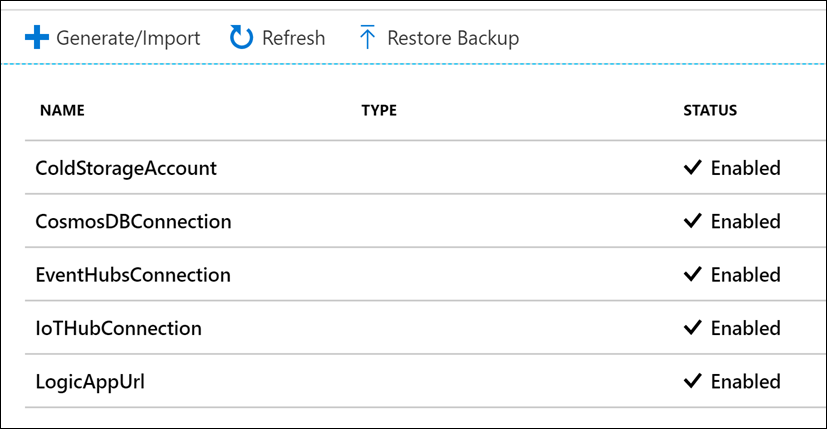
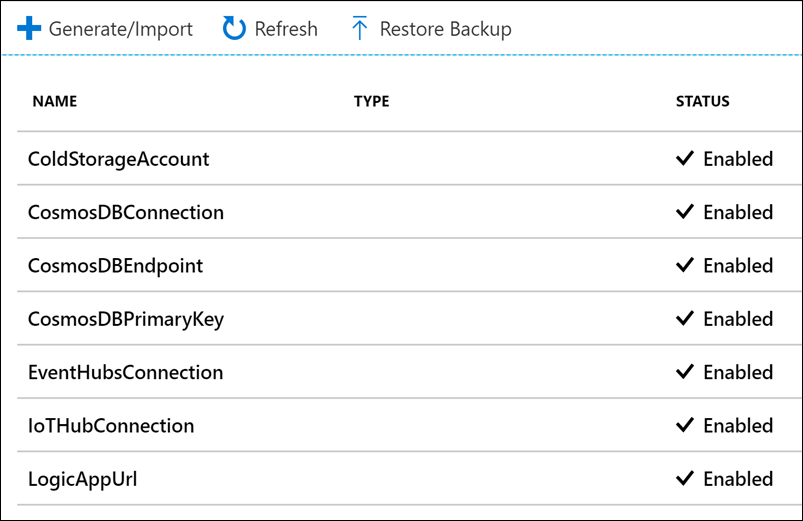
Added two more Key Vault secrets

diff --git a/IoT/HOL step-by step - Cosmos DB scenario-based labs - IoT.md b/IoT/HOL step-by step - Cosmos DB scenario-based labs - IoT.md
@@ -494,6 +494,8 @@ Azure Key Vault is used to Securely store and tightly control access to tokens, 
    | **Name**            |                                                                          **Value**                                                                          |
    | ------------------- | :---------------------------------------------------------------------------------------------------------------------------------------------------------: |
    | CosmosDBConnection  |                            Your Cosmos DB connection string found here: **Cosmos DB account > Keys > Primary Connection String**                            |
+   | CosmosDBEndpoint    |                                           Your Cosmos DB endpoint found here: **Cosmos DB account > Keys > URI**                                            |
+   | CosmosDBPrimaryKey  |                                      Your Cosmos DB primary key found here: **Cosmos DB account > Keys > Primary Key**                                      |
    | IoTHubConnection    |                         Your IoT Hub connection string found here: **IoT Hub > Built-in endpoints > Event Hub-compatible endpoint**                         |
    | ColdStorageAccount  |  Connection string to the Azure Storage account whose name starts with `iotstore`, found here: **Storage account > Access keys > key1 Connection string**   |
    | EventHubsConnection | Your Event Hubs connection string found here: **Event Hubs namespace > Shared access policies > RootManageSharedAccessKey > Connection string-primary key** |
@@ -627,15 +629,15 @@ In this task, you will import the Databricks notebooks into your workspace.
 
 3. Select **Workspace**, select **Users**, select the dropdown to the right of your username, then select **Import**.
 
-    ![The Import link is highlighted in the Workspace.](media/databricks-import-link.png "Workspace")
+   ![The Import link is highlighted in the Workspace.](media/databricks-import-link.png 'Workspace')
 
 4. Select **URL** next to **Import from**, paste the following into the text box: `https://github.com/solliancenet/cosmos-db-scenario-based-labs/blob/master/lab-files/IoT/Notebooks/01%20IoT.dbc`, then select **Import**.
 
-    ![The URL has been entered in the import form.](media/databricks-import.png "Import Notebooks")
+   ![The URL has been entered in the import form.](media/databricks-import.png 'Import Notebooks')
 
 5. After importing, select your username. You will see a new folder named `01 IoT (clean)`, which contains two notebooks.
 
-    ![The imported notebooks are displayed.](media/databricks-notebooks.png "Imported notebooks")
+   ![The imported notebooks are displayed.](media/databricks-notebooks.png 'Imported notebooks')
 
 ### Task 2: Run batch scoring notebook
 
